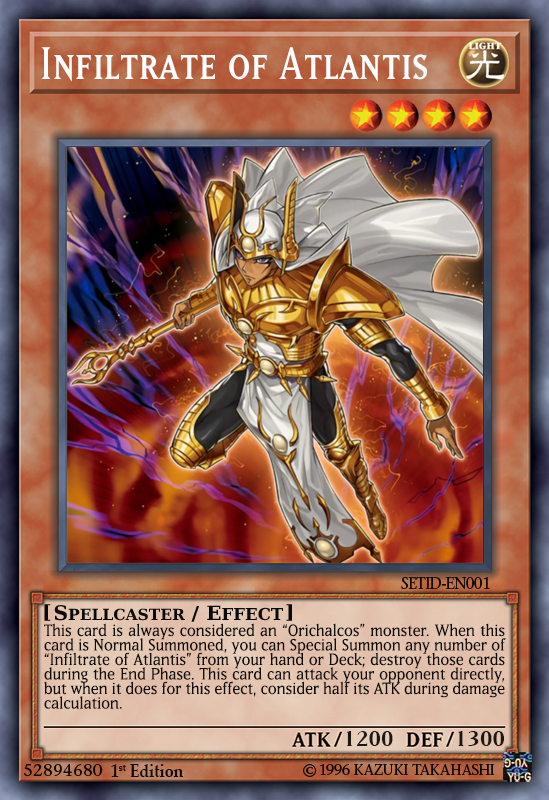
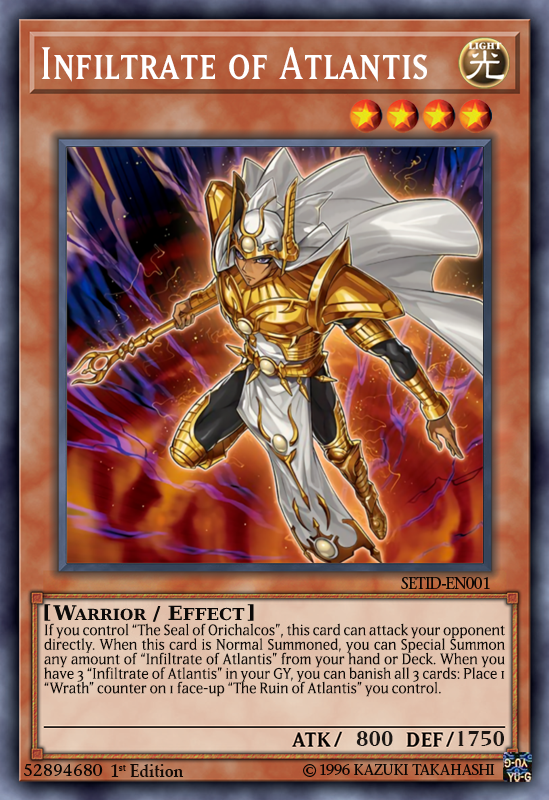
Update

Changed region(s): [[0.0619, 0.75, 0.929, 0.9062], [0.8361, 0.9062, 0.898, 0.9375], [0.6193, 0.9062, 0.6812, 0.9375]]

diff --git a/Scripts/cards_db.js b/Scripts/cards_db.js
@@ -652,12 +652,12 @@ var CARDS_DB =
         "Name": "Infiltrate of Atlantis",
         "Img": "Infiltrate_of_atlantis",
         "Stars": 4,
-        "Type": "Spellcaster / Effect",
+        "Type": "Warrior / Effect",
         "Meta": {
-            "ATK": 1200,
-            "DEF": 1300,
+            "ATK": 800,
+            "DEF": 1750,
             "Attribute": "LIGHT",
-            "Effect": "This card is always considered an \u201cOrichalcos\u201d monster. When this card is Normal Summoned, you can Special Summon any number of \u201cInfiltrate of Atlantis\u201d from your hand or Deck; destroy those cards during the End Phase. This card can attack your opponent directly, but when it does for this effect, consider half its ATK during damage calculation."
+            "Effect": "If you control \u201cThe Seal of Orichalcos\u201d, this card can attack your opponent directly. When this card is Normal Summoned, you can Special Summon any amount of \u201cInfiltrate of Atlantis\u201d from your hand or Deck. When you  have 3 \u201cInfiltrate of Atlantis\u201d in your GY, you can banish all 3 cards: Place 1 \u201cWrath\u201d counter on 1 face-up \u201cThe Ruin of Atlantis\u201d you control."
         }
     },
     {
@@ -1317,7 +1317,7 @@ var CARDS_DB =
             "ATK": 200,
             "DEF": 200,
             "Attribute": "DARK",
-            "Effect": "When 1 \u201cOrichalcos\u201d Field Spell you control would leave the field (Quick Effect): discard this card instead. When an opponent's monster declares a direct attack: You can Special Summon this card from your hand, then end the Battle Phase. If you control \u201cThe Seal of Orichalcos\u201d, this card can attack your opponent directly. When this card is Special Summoned from your GY, increase its ATK by 1000 untill the End Phase."
+            "Effect": "When 1 \u201cOrichalcos\u201d Field Spell you control would leave the field (Quick Effect): Discard or Tribute this card instead. Once per turn, cannot be destroyed. This card can attack your opponent directly. When this card is Special Summoned from your GY by the effect of \u201cThe Seal of Orichalcos\u201d, increase its ATK by 1000 untill the End Phase."
         }
     },
     {
